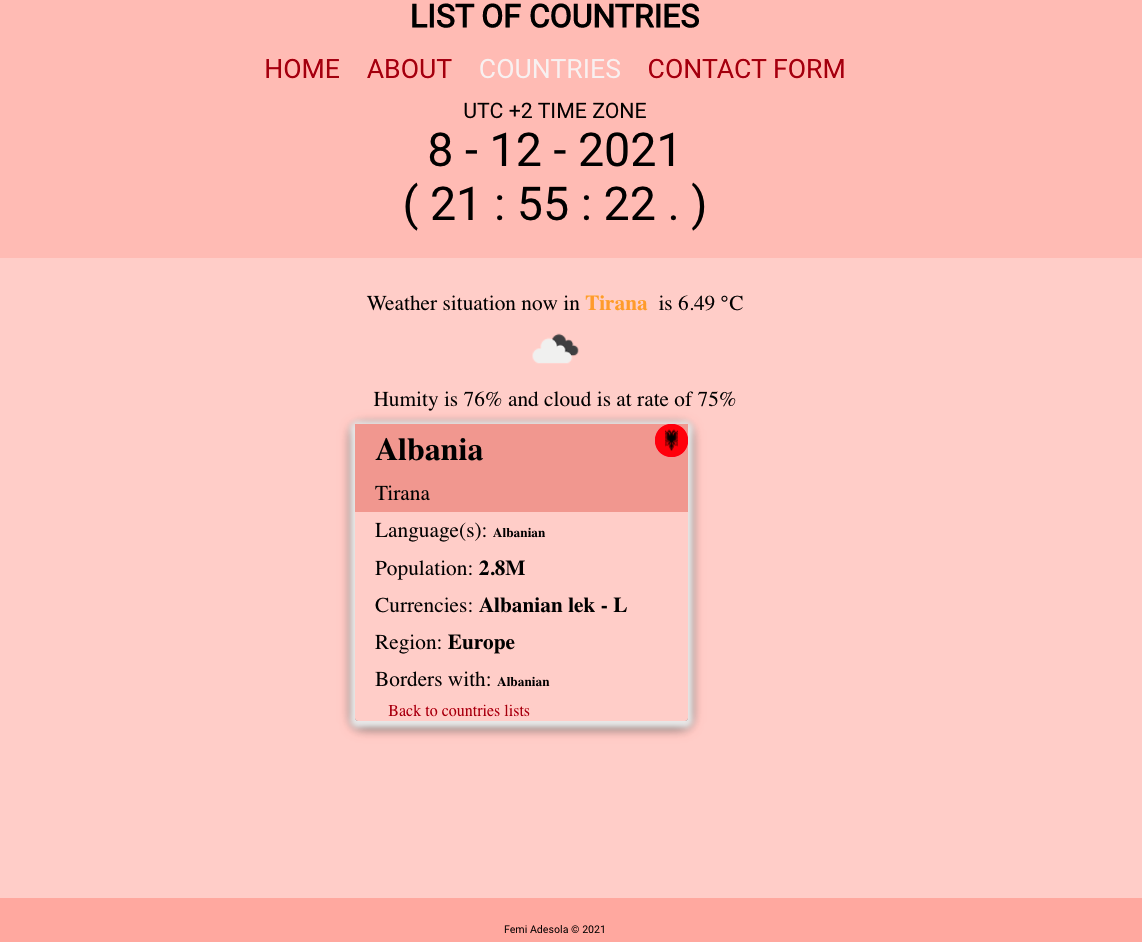
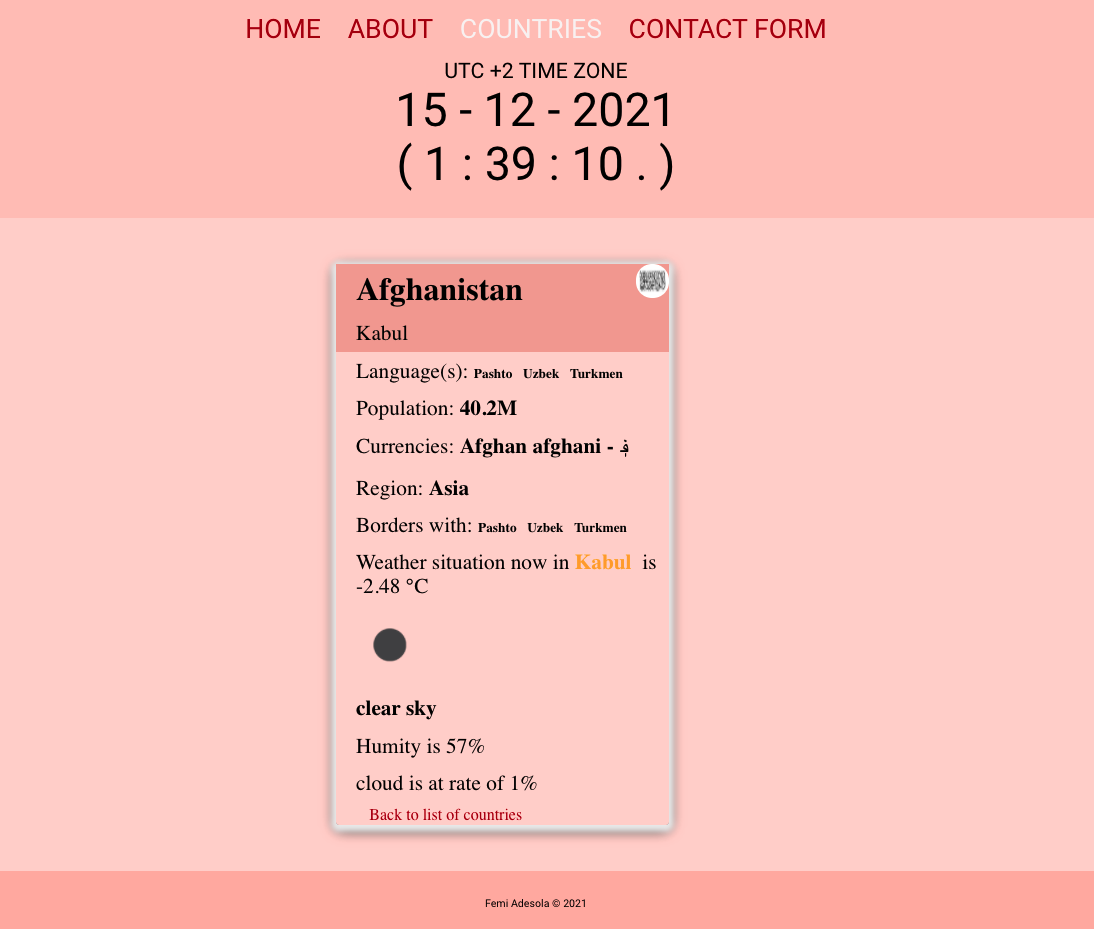
Added new weather condition

Changed region(s): [[0.2797, 0.2809, 0.6527, 0.9053], [0.2176, 0.0, 0.7459, 0.2497], [0.0, 0.9365, 1.0, 0.9989]]

diff --git a/src/components/countries/countrySingle.js b/src/components/countries/countrySingle.js
@@ -39,19 +39,6 @@ componentDidMount(){
 
         return (
             <div className="CountrySingle">
-                <p> 
-                    Weather situation now in {" "}
-                    <span className="city">{this.props.params.name}</span>
-                   is {" "}{this.state.weather.main.temp} °C 
-                </p>
-               
-                <img    src={`http://openweathermap.org/img/wn/${this.state.weather.weather[0].icon}@2x.png`} 
-                        alt={this.state.weather.weather[0].description}
-                />
-                <p> Humity is {this.state.weather.main.humidity}%  and 
-                cloud is at rate of {this.state.weather.clouds.all}%</p>
-               
-              
                 <div className="country" key = {this.state.country.name} >
             
                     <div className="cardTop">
@@ -74,6 +61,19 @@ componentDidMount(){
                     <p>
                         Borders with: {this.state.country.languages.map((border, i)=>(<span className="border" key={i}>{border.name}</span>))}
                     </p>
+                    <p> 
+                    Weather situation now in {" "}
+                    <span className="city">{this.props.params.name}</span>
+                   is {" "}{this.state.weather.main.temp} °C 
+                </p>
+                <p>
+                    <img    src={`http://openweathermap.org/img/wn/${this.state.weather.weather[0].icon}@2x.png`} 
+                        alt={this.state.weather.weather[0].description}/>
+                    </p>
+                    <p><strong>{this.state.weather.weather[0].description}</strong></p>
+                    <p>Humity is {this.state.weather.main.humidity}%</p>
+                    <p>cloud is at rate of {this.state.weather.clouds.all}%</p>
+                    
                     <Link to="/countries"> Back to list of countries </Link>
                 </div>         
             </div>

diff --git a/README.md b/README.md
@@ -37,7 +37,7 @@
     - Here users can see the current weather, humidity, and cloudy condition of the selected country. 
 By clicking on the back to countries list link, it navigates to the list of countries. 
 
-![Search-by-option-screenshot](/img/SingleCountry.png)
+![Search-by-Option-screenshot](/img/SingleCountry.png)
 
 ---
 # Form application built with ReactJS program to post information to database
